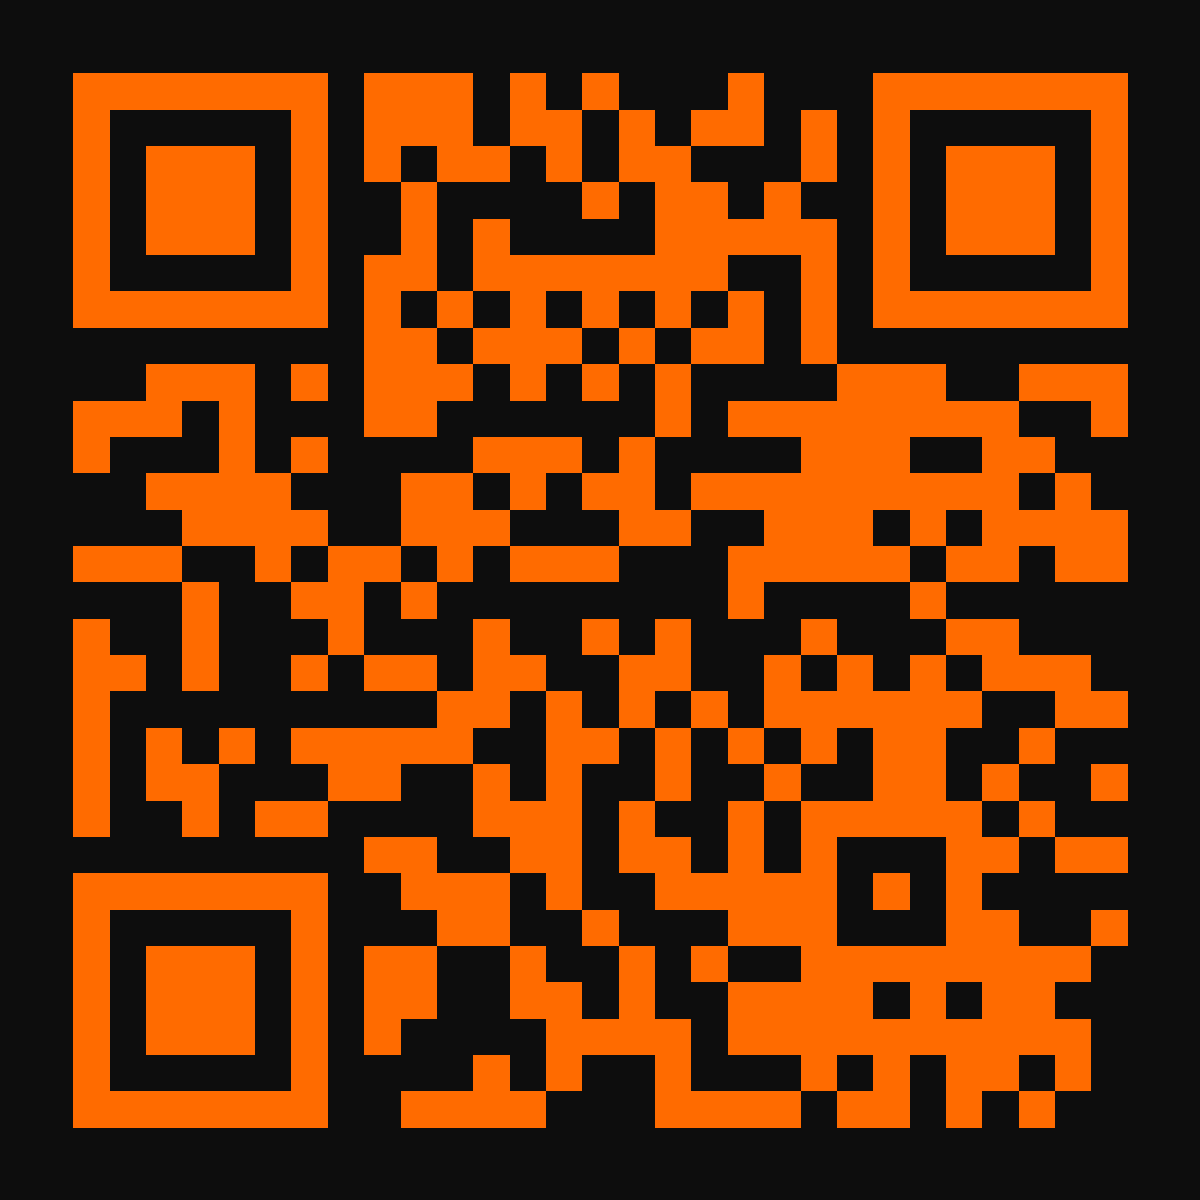
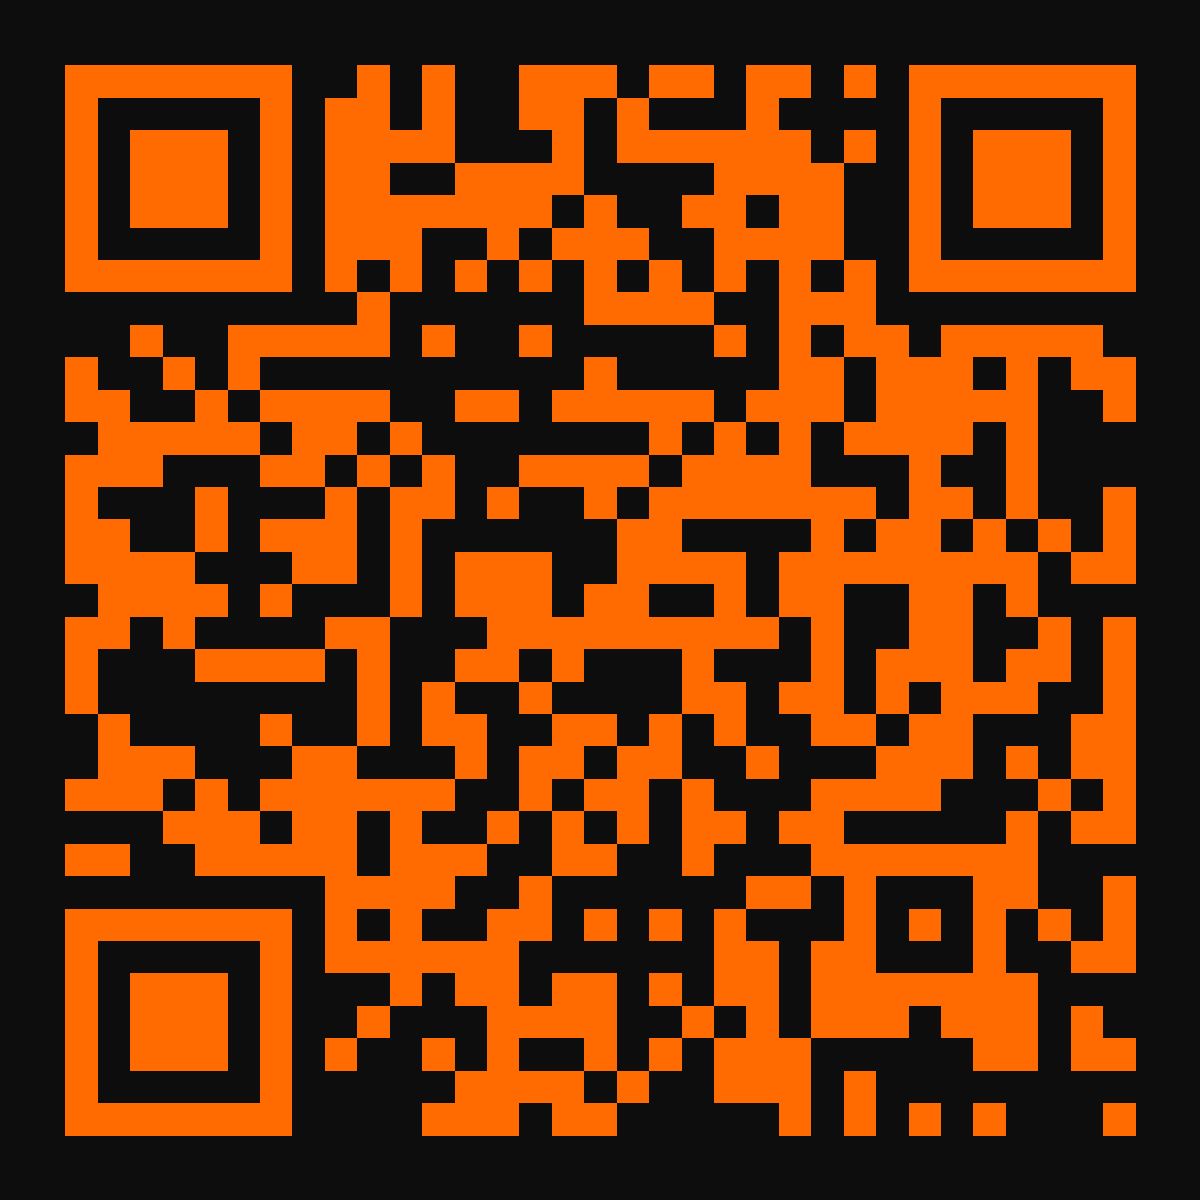
feat: add visit tracking API and admin dashboard analytics for total and QR visits

diff --git a/admin.js b/admin.js
@@ -507,6 +507,23 @@ function renderDashboard() {
   const dashEventsEl = document.getElementById('dash-events');
   if (dashEventsEl) dashEventsEl.textContent = activeEventsCount;
 
+  // Website & QR Analytics
+  const analytics = appData.analytics || {};
+  const totalVisits = analytics.totalVisits || 0;
+  const qrVisits = analytics.qrVisits || 0;
+  const todayVisits = analytics.todayVisits || 0;
+  const qrPct = totalVisits > 0 ? Math.round((qrVisits / totalVisits) * 100) : 0;
+
+  const dashVisitsEl = document.getElementById('dash-visits');
+  if (dashVisitsEl) dashVisitsEl.textContent = totalVisits.toLocaleString();
+  const dashVisitsTodayEl = document.getElementById('dash-visits-today');
+  if (dashVisitsTodayEl) dashVisitsTodayEl.textContent = `Oggi: ${todayVisits.toLocaleString()}`;
+
+  const dashQrEl = document.getElementById('dash-qr');
+  if (dashQrEl) dashQrEl.textContent = qrVisits.toLocaleString();
+  const dashQrPctEl = document.getElementById('dash-qr-pct');
+  if (dashQrPctEl) dashQrPctEl.textContent = `${qrPct}% del traffico`;
+
   // Progress Bars
   const r1 = appData.rounds.r1;
   const p1 = (r1.sold / r1.limit) * 100;
@@ -552,11 +569,13 @@ function renderDashboard() {
       "Valentina Severini": ["VALENTINA SEVERINI", "VALENTINA", "VALENTINASEVERINI"],
       "Chiara Comella": ["CHIARA COMELLA", "CHIARA", "CHIARACOMELLA"],
       "DJL": ["DJL", "DJ L", "DJ-L"],
-      "Lucca Groove IG": ["LUCCA GROOVE IG", "LUCCA GROOVE", "IG", "INSTAGRAM", "ORGANIC", ""]
+      "Lucca Groove IG": ["LUCCA GROOVE IG", "LUCCA GROOVE", "IG", "INSTAGRAM", "ORGANIC", ""],
+      "QR Code / Flyer": ["QR CODE", "QR", "FLIER", "FLYER"]
     };
 
     const promoterCounts = {
       "Lucca Groove IG": 0,
+      "QR Code / Flyer": 0,
       "Alicea Dorni": 0,
       "Francesca Calta": 0,
       "Valentina Severini": 0,

diff --git a/script.js b/script.js
@@ -1,11 +1,46 @@
-// ===== REFERRAL TRACKING =====
+// ===== REFERRAL & VISIT TRACKING =====
 const urlParams = new URLSearchParams(window.location.search);
-const refParam = urlParams.get('ref');
-if (refParam) {
+const refParam = urlParams.get('ref') || urlParams.get('src');
+const isQR = (refParam && refParam.toLowerCase() === 'qr') || urlParams.get('utm_source') === 'qr';
+
+if (isQR) {
+  localStorage.setItem('promoter_ref', 'QR CODE');
+} else if (refParam) {
   localStorage.setItem('promoter_ref', refParam.toUpperCase());
 } else if (!localStorage.getItem('promoter_ref')) {
   localStorage.setItem('promoter_ref', 'LUCCA GROOVE IG');
 }
+
+// Track visits deduplicated per session
+(function trackAnalytics() {
+  try {
+    const hasVisited = sessionStorage.getItem('lg_visited_session');
+    const hasTrackedQR = sessionStorage.getItem('lg_qr_tracked');
+
+    // Count new session or freshly scanned QR
+    const shouldTrackSession = !hasVisited;
+    const shouldTrackQR = isQR && !hasTrackedQR;
+
+    if (shouldTrackSession || shouldTrackQR) {
+      if (shouldTrackSession) sessionStorage.setItem('lg_visited_session', '1');
+      if (isQR) sessionStorage.setItem('lg_qr_tracked', '1');
+
+      const payload = JSON.stringify({ isQR: Boolean(isQR) });
+      if (navigator.sendBeacon) {
+        navigator.sendBeacon('/api/track-visit', new Blob([payload], { type: 'application/json' }));
+      } else {
+        fetch('/api/track-visit', {
+          method: 'POST',
+          headers: { 'Content-Type': 'application/json' },
+          body: payload,
+          keepalive: true
+        }).catch(() => {});
+      }
+    }
+  } catch (e) {
+    // Fail silently
+  }
+})();
 
 // ===== NAV =====
 const navbar = document.getElementById('navbar');

diff --git a/api/save-order.js b/api/save-order.js
@@ -35,7 +35,7 @@ module.exports = async function handler(req, res) {
 
     const ADMIN_TOKEN = process.env.ADMIN_TOKEN || 'johnl';
     const isAdmin = Boolean(req.headers['x-admin-token'] && req.headers['x-admin-token'] === ADMIN_TOKEN);
-    const adminActions = ['verify-token', 'repair-stats', 'reset-orders', 'delete-event', 'settings', 'archive-event', 'mark-paid', 'manual', 'scan', 'delete-order', 'delete-group'];
+    const adminActions = ['verify-token', 'repair-stats', 'reset-orders', 'reset-analytics', 'delete-event', 'settings', 'archive-event', 'mark-paid', 'manual', 'scan', 'delete-order', 'delete-group'];
 
     if (adminActions.includes(action) && !isAdmin) {
       return res.status(401).json({ error: 'Unauthorized: Invalid Admin Token' });
@@ -100,6 +100,25 @@ module.exports = async function handler(req, res) {
       data.rounds.r3.sold = 0;
 
       await redis.set('luccaAdminData', JSON.stringify(data));
+      return res.status(200).json({ success: true, data });
+    }
+
+    if (action === 'reset-analytics') {
+      const today = new Date().toISOString().slice(0, 10);
+      await Promise.all([
+        redis.del('analytics:visits:total'),
+        redis.del('analytics:visits:qr'),
+        redis.del(`analytics:daily:${today}:total`),
+        redis.del(`analytics:daily:${today}:qr`)
+      ]);
+      data.analytics = {
+        totalVisits: 0,
+        qrVisits: 0,
+        directVisits: 0,
+        qrPercentage: 0,
+        todayVisits: 0,
+        todayQr: 0
+      };
       return res.status(200).json({ success: true, data });
     }
 

diff --git a/admin.css b/admin.css
@@ -49,12 +49,13 @@ a { text-decoration: none; color: inherit; }
 @keyframes fadeIn { from { opacity: 0; transform: translateY(10px); } to { opacity: 1; transform: translateY(0); } }
 
 /* ===== DASHBOARD CARDS ===== */
-.stats-grid { display: grid; grid-template-columns: repeat(3, 1fr); gap: 1.5rem; margin-bottom: 2rem; }
+.stats-grid { display: grid; grid-template-columns: repeat(auto-fit, minmax(185px, 1fr)); gap: 1.25rem; margin-bottom: 2rem; }
 .stat-card { background: var(--bg-card); border: 1px solid var(--border-orange); border-radius: 6px; padding: 1.5rem; display: flex; align-items: center; gap: 1.5rem; box-shadow: 0 4px 15px rgba(0,0,0,0.2); }
 .stat-icon { width: 50px; height: 50px; border-radius: 50%; background: rgba(255,107,0,0.1); color: var(--orange); display: flex; align-items: center; justify-content: center; font-size: 1.5rem; border: 1px solid var(--orange); }
 .stat-info { display: flex; flex-direction: column; gap: 0.3rem; }
 .stat-label { font-family: 'Barlow Condensed', sans-serif; font-size: 0.85rem; text-transform: uppercase; letter-spacing: 0.1em; color: var(--text-muted); font-weight: 700; }
 .stat-value { font-family: 'Barlow Condensed', sans-serif; font-size: 2.2rem; font-weight: 900; color: var(--orange); line-height: 1; margin: 0; }
+.stat-sub { font-size: 0.75rem; color: var(--text-muted); font-weight: 500; margin-top: 3px; }
 
 /* ===== PANELS & TABLES ===== */
 .dashboard-panels { display: grid; grid-template-columns: 1fr 1fr; gap: 1.5rem; }

diff --git a/secure-admin.html b/secure-admin.html
@@ -171,6 +171,26 @@
             <h3 class="stat-value" id="dash-events">0</h3>
           </div>
         </div>
+        <div class="stat-card">
+          <div class="stat-icon">
+            <svg width="22" height="22" viewBox="0 0 24 24" fill="none" stroke="currentColor" stroke-width="2"><path d="M1 12s4-8 11-8 11 8 11 8-4 8-11 8-11-8-11-8z"></path><circle cx="12" cy="12" r="3"></circle></svg>
+          </div>
+          <div class="stat-info">
+            <span class="stat-label">Visite Totali</span>
+            <h3 class="stat-value" id="dash-visits">0</h3>
+            <span class="stat-sub" id="dash-visits-today">Oggi: 0</span>
+          </div>
+        </div>
+        <div class="stat-card">
+          <div class="stat-icon" style="color:var(--orange);">
+            <svg width="22" height="22" viewBox="0 0 24 24" fill="none" stroke="currentColor" stroke-width="2"><rect x="3" y="3" width="7" height="7"></rect><rect x="14" y="3" width="7" height="7"></rect><rect x="3" y="14" width="7" height="7"></rect><path d="M14 14h3v3h-3z"></path><path d="M20 14v3"></path><path d="M14 20h3"></path><path d="M20 20v.01"></path></svg>
+          </div>
+          <div class="stat-info">
+            <span class="stat-label">Scansioni QR Code</span>
+            <h3 class="stat-value" id="dash-qr">0</h3>
+            <span class="stat-sub" id="dash-qr-pct">0% del traffico</span>
+          </div>
+        </div>
       </div>
 
       <div class="dashboard-panels">

diff --git a/api/track-visit.js b/api/track-visit.js
@@ -1,0 +1,50 @@
+const { Redis } = require('@upstash/redis');
+
+let redis;
+try {
+  redis = Redis.fromEnv();
+} catch (e) {
+  console.error('Redis init error in track-visit:', e);
+}
+
+module.exports = async function handler(req, res) {
+  // Allow only POST or GET (e.g. for beacon or fallback)
+  if (req.method !== 'POST' && req.method !== 'GET') {
+    return res.status(405).json({ error: 'Method Not Allowed' });
+  }
+
+  if (!redis) {
+    return res.status(200).json({ ok: false, warning: 'Redis not initialized' });
+  }
+
+  try {
+    let isQR = false;
+    if (req.method === 'POST') {
+      const body = typeof req.body === 'string' ? JSON.parse(req.body || '{}') : (req.body || {});
+      isQR = Boolean(body.isQR);
+    } else if (req.query) {
+      isQR = req.query.isQR === 'true' || req.query.isQR === '1';
+    }
+
+    const today = new Date().toISOString().slice(0, 10); // YYYY-MM-DD
+    const ops = [
+      redis.incr('analytics:visits:total'),
+      redis.incr(`analytics:daily:${today}:total`)
+    ];
+
+    if (isQR) {
+      ops.push(
+        redis.incr('analytics:visits:qr'),
+        redis.incr(`analytics:daily:${today}:qr`)
+      );
+    }
+
+    await Promise.all(ops);
+
+    return res.status(200).json({ success: true, isQR });
+  } catch (error) {
+    console.error('Track visit error:', error);
+    // Don't fail the user page load
+    return res.status(200).json({ ok: false, error: 'Tracking failed silently' });
+  }
+};

diff --git a/api/get-data.js b/api/get-data.js
@@ -82,6 +82,40 @@ module.exports = async function handler(req, res) {
     const isAdmin = Boolean(req.headers['x-admin-token'] && req.headers['x-admin-token'] === ADMIN_TOKEN);
     
     if (isAdmin) {
+      try {
+        const today = new Date().toISOString().slice(0, 10);
+        const [total, qr, tTotal, tQr] = await Promise.all([
+          redis.get('analytics:visits:total'),
+          redis.get('analytics:visits:qr'),
+          redis.get(`analytics:daily:${today}:total`),
+          redis.get(`analytics:daily:${today}:qr`)
+        ]);
+
+        const totalVisits = parseInt(total || '0', 10);
+        const qrVisits = parseInt(qr || '0', 10);
+        const todayVisits = parseInt(tTotal || '0', 10);
+        const todayQr = parseInt(tQr || '0', 10);
+
+        data.analytics = {
+          totalVisits,
+          qrVisits,
+          directVisits: Math.max(0, totalVisits - qrVisits),
+          qrPercentage: totalVisits > 0 ? Math.round((qrVisits / totalVisits) * 100) : 0,
+          todayVisits,
+          todayQr
+        };
+      } catch (err) {
+        console.error('Error fetching analytics:', err);
+        data.analytics = {
+          totalVisits: 0,
+          qrVisits: 0,
+          directVisits: 0,
+          qrPercentage: 0,
+          todayVisits: 0,
+          todayQr: 0
+        };
+      }
+
       res.status(200).json(data);
     } else {
       const publicData = {

diff --git a/qr-code.html b/qr-code.html
@@ -209,7 +209,7 @@
   <div class="container">
     <div class="header-badge">✦ Official QR Code</div>
     <h1>Lucca <span>Groove</span></h1>
-    <a href="https://luccagroove.com" target="_blank" class="url-chip">https://luccagroove.com ↗</a>
+    <a href="https://luccagroove.com/?ref=qr" target="_blank" class="url-chip">https://luccagroove.com/?ref=qr ↗</a>
 
     <div class="variant-selector">
       <button class="variant-btn active" onclick="switchVariant('standard')">Stampa (B&W)</button>
@@ -232,7 +232,7 @@
 
     <div class="info-footer">
       Risoluzione HD <strong>1200×1200px</strong> (PNG) + <strong>Vettoriale</strong> (SVG).<br>
-      Livello correzione d'errore: <strong>High (H - 30%)</strong>, ideale per flyer, poster, social e stampe.
+      Tracciamento attivo: ogni scansione viene conteggiata in tempo reale nella <strong>Dashboard Admin</strong>!
     </div>
   </div>
 
